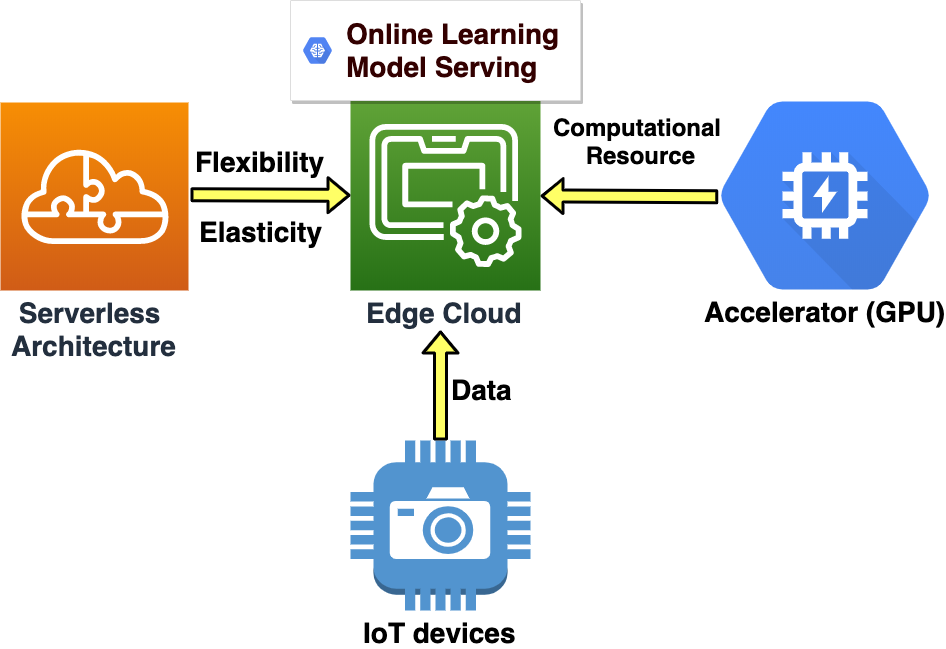
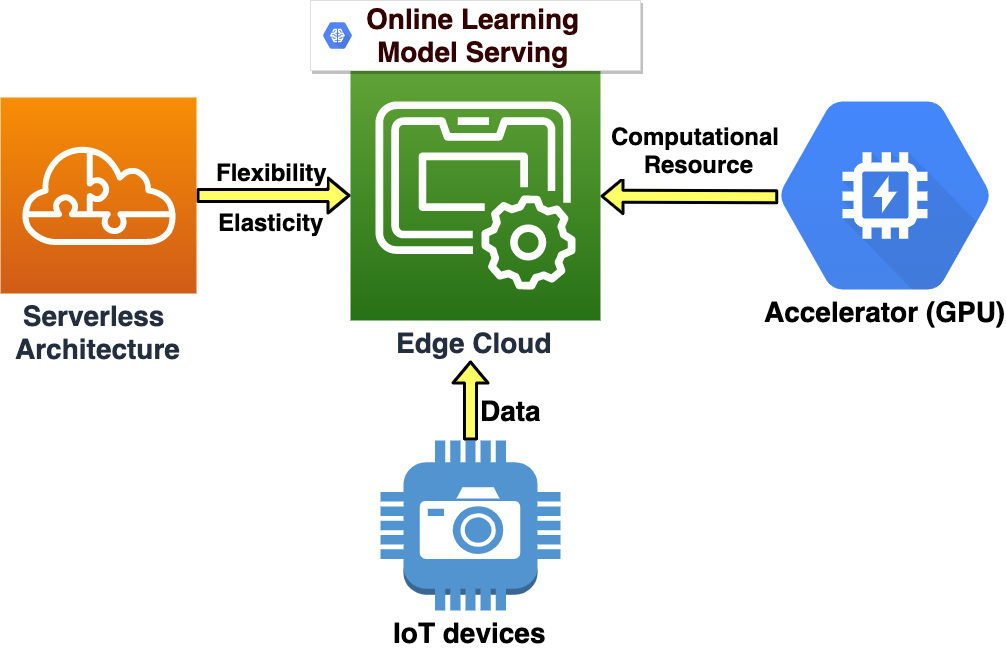
Updates from Overleaf

diff --git a/intro.tex b/intro.tex
@@ -8,8 +8,8 @@ An immediate difficulty we face is the scarcity of computational resources on ed
 
 \begin{figure}
     \centering
-    \includegraphics[scale=0.27]{figures/edge}
-    \caption{The Design Principal of STOIC }
+    \includegraphics[scale=0.25]{figures/edge}
+    \caption{The Design Principle of STOIC }
     \label{fig:edge}
 \end{figure}
 

diff --git a/README.md b/README.md
@@ -1,3 +1,15 @@
 # STOIC_PerCom_Paper
 
 Serverless Teleoperable Hybrid Cloud for Machine Learning Applications on Edge Device
+
+Figure Editing URL:
+
+* The Design Principle of STOIC:
+
+
+
+
+* The architecture of STOIC:
+
+https://www.draw.io/#HMAYHEM-Lab%2FSTOIC_PerCom_Paper%2Fmaster%2Ffigures%2FSTOIC.drawio
+
